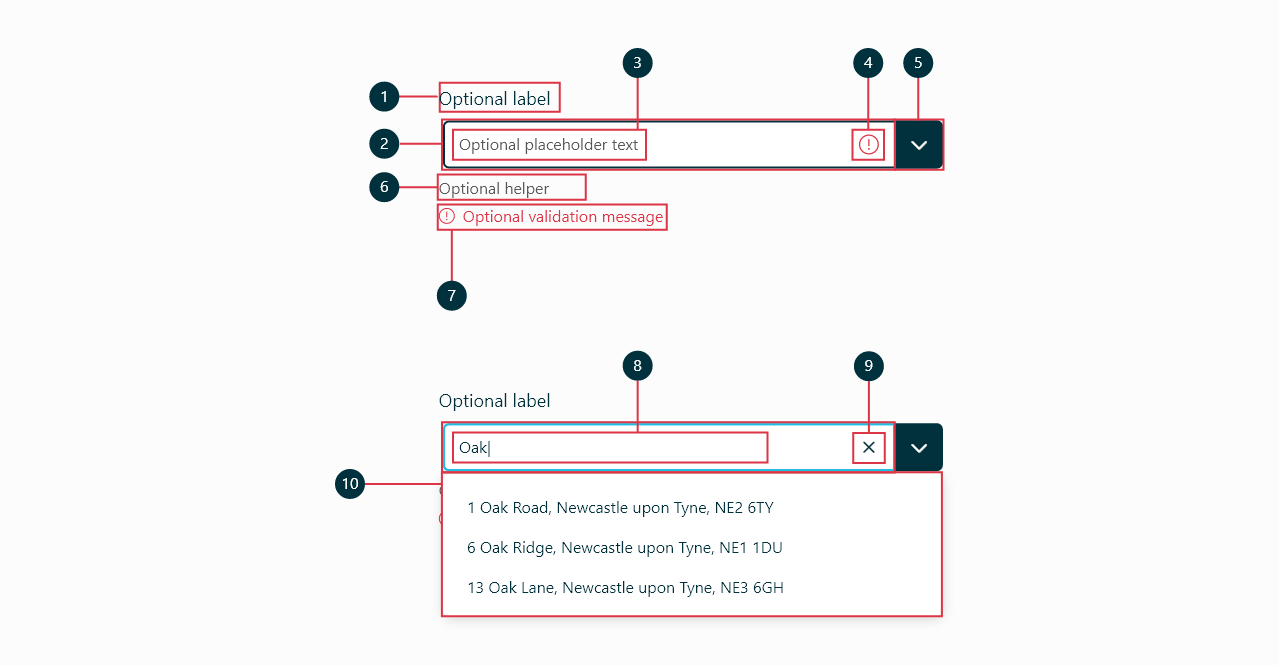
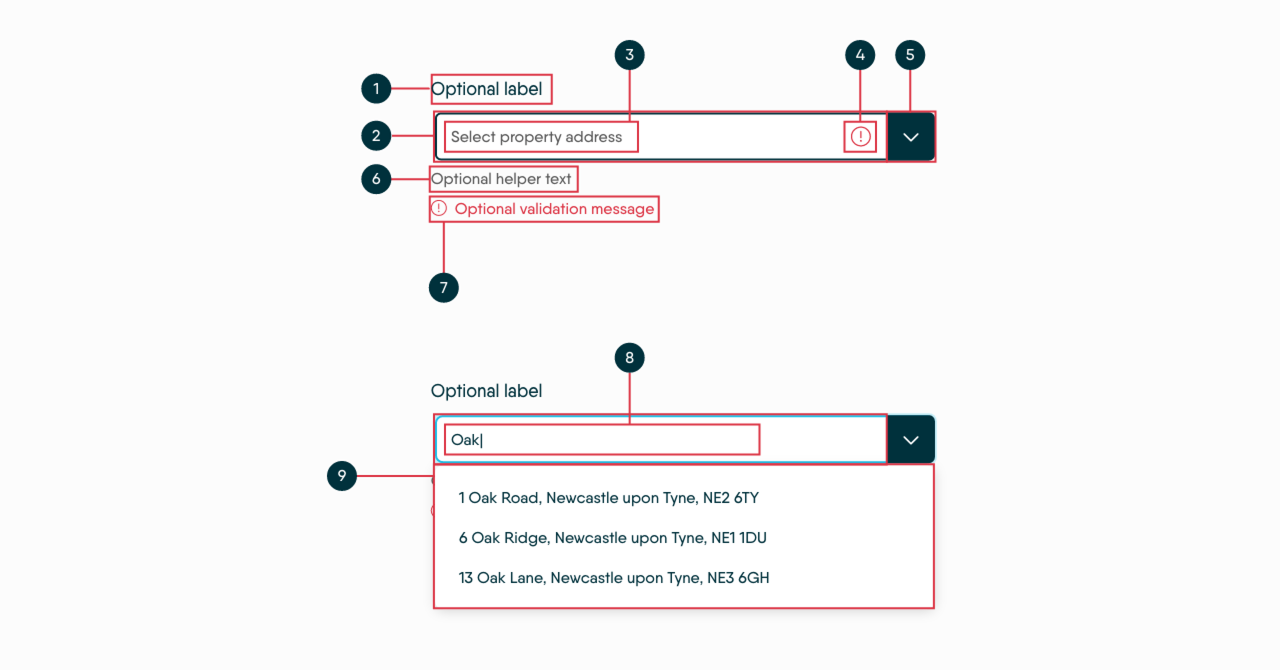
PR fixes

Changed region(s): [[0.2439, 0.5105, 0.7623, 0.9309], [0.2744, 0.0601, 0.7623, 0.4805], [0.6708, 0.5105, 0.7013, 0.5706]]

diff --git a/assets/ts/modules/advanced-select.ts b/assets/ts/modules/advanced-select.ts
@@ -1,15 +1,28 @@
-function advancedSelect(advancedSelect, displayInputField, datalist): boolean | void {
+function advancedSelect(advancedSelect, displayInputField, datalist, isSearch = false): boolean | void {
   let currentFocus = -1;
-  displayInputField.addEventListener('focus', function () {
-    displayInputField.setAttribute('placeholder', displayInputField.value);
-    displayInputField.setAttribute('data-value', displayInputField.value);
-    displayInputField.value = '';
 
-    displayInputField.setAttribute('data-list', displayInputField.getAttribute('list'));
-    displayInputField.setAttribute('list', '');
+  console.log(isSearch);
+  if(!isSearch){
+    displayInputField.addEventListener('focus', function () {
+      displayInputField.setAttribute('placeholder', displayInputField.value);
+      displayInputField.setAttribute('data-value', displayInputField.value);
+      displayInputField.value = '';
 
-    datalist.style.display = 'block';
-  });
+      displayInputField.setAttribute('data-list', displayInputField.getAttribute('list'));
+      displayInputField.setAttribute('list', '');
+
+      datalist.style.display = 'block';
+    });
+  }
+  else {
+    displayInputField.addEventListener('focus', function () {
+
+      displayInputField.setAttribute('data-list', displayInputField.getAttribute('list'));
+      displayInputField.setAttribute('list', '');
+
+      datalist.style.display = 'block';
+    });
+  }
 
   displayInputField.addEventListener('blur', function () {
     if (displayInputField.hasAttribute('data-value')) {
@@ -23,14 +36,26 @@ function advancedSelect(advancedSelect, displayInputField, datalist): boolean | 
 
   for (const option of datalist.options) {
     if (option.innerHTML == '') option.innerHTML = option.value;
+  }
 
-    option.addEventListener('click', function () {
+
+  advancedSelect.addEventListener('click', function () {
+
+    if (event && event.target instanceof HTMLElement && event.target.closest('datalist option')) {
+      const option = event.target.closest('datalist option');
+ 
       displayInputField.value = option.value;
       datalist.style.display = 'none';
 
+      for (const optionInner of datalist.options) {
+        optionInner.classList.remove('active')
+      }
+
       option.classList.add('active');
-    });
-  }
+    }
+
+  });
+
 
   displayInputField.addEventListener('input', function () {
     displayInputField.removeAttribute('data-value');
@@ -75,16 +100,21 @@ function advancedSelect(advancedSelect, displayInputField, datalist): boolean | 
     }
   }
 
+
   // Add the empty button
   displayInputField
     .closest('label')
-    .insertAdjacentHTML('beforeend', '<button class="empty"><i class="fa-light fa-times"></i></button>');
+    .insertAdjacentHTML('beforeend', '<button class="empty btn btn-action btn-save border-0"><i class="fa-light fa-times me-0"></i></button>');
   const closeBtn = advancedSelect.querySelector('.empty');
 
   closeBtn.addEventListener('click', function (e) {
     displayInputField.removeAttribute('placeholder');
     displayInputField.removeAttribute('data-value');
     displayInputField.value = '';
+    
+    for (const optionInner of datalist.options) {
+      optionInner.classList.remove('active')
+    }
   });
 }
 

diff --git a/assets/sass/elements/forms.scss b/assets/sass/elements/forms.scss
@@ -256,7 +256,7 @@ $optionalText: 'true' !default;
     padding: var(--input-padding-block, #{rem(12)}) var(--input-padding-inline, #{rem(16)});
     font-size: var(--input-fs, #{rem(16)});
     line-height: var(--input-lh, #{rem(20)});
-    color: var(--colour-body);
+    color: var(--colour-heading);
     background-color: var(--colour-canvas-2);
     background-clip: padding-box;
     border: 2px solid var(--colour-primary);
@@ -280,9 +280,12 @@ $optionalText: 'true' !default;
     &:is(:focus, .focus):not(:disabled) {
       border-color: var(--colour-info);
       outline: 0;
-      box-shadow: 0 0 0 0.1rem rgba(30, 190, 230, 0.25);
     }
 
+    &:is(:focus, .focus):not(:disabled):not(:invalid) {
+      
+      box-shadow: 0 0 0 0.1rem rgba(30, 190, 230, 0.25);
+    }
     // Add some height to date inputs on iOS
     // https://github.com/twbs/bootstrap/issues/23307
     // TODO: we can remove this workaround once https://bugs.webkit.org/show_bug.cgi?id=198959 is resolved
@@ -1334,24 +1337,44 @@ $optionalText: 'true' !default;
 
   input {
     padding-right: 3rem;
-
-    &::placeholder {
-      color: pink;
-    }
   }
 
   .empty {
+
     position: absolute;
-    bottom: 0.5rem;
+    bottom: 0.4rem;
     right: 3.75rem;
-    border: none;
-    background: none;
+    margin: 0;
+    padding-bottom: 0.2rem;
+
+    :not(:hover,:focus){
+      border: none;
+    }
 
     i {
       font-size: 1.5rem;
     }
   }
+
+  label:after,
+  .hint-text {
+    position: absolute;
+    top: 100%;
+  }
 }
+
+.was-validated :is(iam-advanced-select, iam-search) label:has(:is(input:not([type=radio]):not([type=checkbox]), select)){
+  margin-bottom: 2.5rem;
+
+  input {
+    background: none!important;
+  }
+
+  &:has(:invalid, .is-invalid) .hint-text { 
+    display: none;
+  }
+}
+
 :is(iam-advanced-select, iam-search) datalist {
   &:empty {
     display: none !important;
@@ -1362,7 +1385,6 @@ $optionalText: 'true' !default;
   position: absolute;
   background-color: white;
   border-top: none;
-  font-family: sans-serif;
   padding: 0.5rem;
   max-height: 10rem;
   overflow-y: auto;
@@ -1399,6 +1421,14 @@ $optionalText: 'true' !default;
       background: rgba(224, 224, 224, 1) !important;
       border-radius: 0.25rem !important;
     }
+
+    &.active {
+      border-left: 4px solid var(--colour-info) !important;
+      border-radius: 0.25rem !important;
+      background: hsl(from var(--colour-info) h s l / 10%) !important;
+    }
+
+
   }
 }
 // #endregion

diff --git a/assets/ts/components/search/search.component.ts b/assets/ts/components/search/search.component.ts
@@ -76,7 +76,7 @@ class iamSearch extends HTMLElement {
       displayInputField.setAttribute('list', listID);
     }
 
-    advancedSelect(this, displayInputField, datalist);
+    advancedSelect(this, displayInputField, datalist, true);
 
     // Search the endpoint when 3 characters has been added
     if (searchWrapper.hasAttribute('data-url')) {
@@ -94,6 +94,7 @@ class iamSearch extends HTMLElement {
 
       if (match) {
         inputField.value = match.getAttribute('data-value');
+        displayInputField.value = match.getAttribute('data-value');
       } else if (displayInputField.value.length > 0 && !subMatch) {
         displayInputField.classList.add('is-invalid');
         displayInputField.closest('label').setAttribute('data-error', 'No results returned');
@@ -144,10 +145,8 @@ class iamSearch extends HTMLElement {
                 const actualValue = resolvePath(item, valueSchema, '');
                 const displayValue = resolvePath(item, displaySchema, '').replace('\n', ', ');
 
-                console.log(displayValue);
-
                 if (!datalist.querySelector(`option[data-value="${actualValue}"]`))
-                  listString += `<option value="${displayValue}" data-value="${actualValue}"></option>`;
+                  listString += `<option value="${displayValue}" data-value="${actualValue}">${displayValue}</option>`;
               });
             } else if (typeof loopValues == 'object') {
               for (const [key, value] of Object.entries(loopValues)) {
@@ -157,7 +156,7 @@ class iamSearch extends HTMLElement {
                     const displayValue = resolvePath(item, displaySchema, '').replace('\n', ', ');
 
                     if (!datalist.querySelector(`option[data-value="${actualValue}"]`))
-                      listString += `<option value="${key}: ${displayValue}" data-value='${actualValue}'></option>`;
+                      listString += `<option value="${key}: ${displayValue}" data-value='${actualValue}'>${key}: ${displayValue}</option>`;
                   });
                 }
               }

diff --git a/docs/views/form/Select.vue b/docs/views/form/Select.vue
@@ -69,7 +69,7 @@
     </label>
 
     <h3>Anatomy</h3>
-    <p>Selects are composed of 4 required sections and 6 optional sections.</p>
+    <p>Selects are composed of 4 required sections and 5 optional sections.</p>
 
     <img :src="Anatomy" />
 
@@ -82,7 +82,6 @@
       <li>Helper text (optional).</li>
       <li>Validation message (optional)</li>
       <li>Field value.</li>
-      <li>Clear field button (only for search select)</li>
       <li>Dropdown (browser default)</li>
     </ol>
 

diff --git a/src/components/AdvancedSelect/AdvancedSelect.vue b/src/components/AdvancedSelect/AdvancedSelect.vue
@@ -9,7 +9,7 @@
     name: 'AdvancedSelect',
     mounted() {
       this.$nextTick(function () {
-        import(`../../../assets/js/components/advanced-select/advanced-select.component.min.js`)
+        import(/* @vite-ignore */ `../../../assets/js/components/advanced-select/advanced-select.component.min.js`)
           .then((module) => {
             if (!window.customElements.get(`iam-advanced-select`))
               window.customElements.define(`iam-advanced-select`, module.default);

diff --git a/docs/views/components/SearchDoc.vue b/docs/views/components/SearchDoc.vue
@@ -110,6 +110,7 @@
               <input type="text" name="client" autocomplete="off" aria-autocomplete="none" required />
               <span class="suffix fa-regular fa-search"></span>
             </span>
+            <span class="hint-text">Enter 3 or more characters</span>
           </label>
           <datalist id="properties"></datalist>
         </Search>
